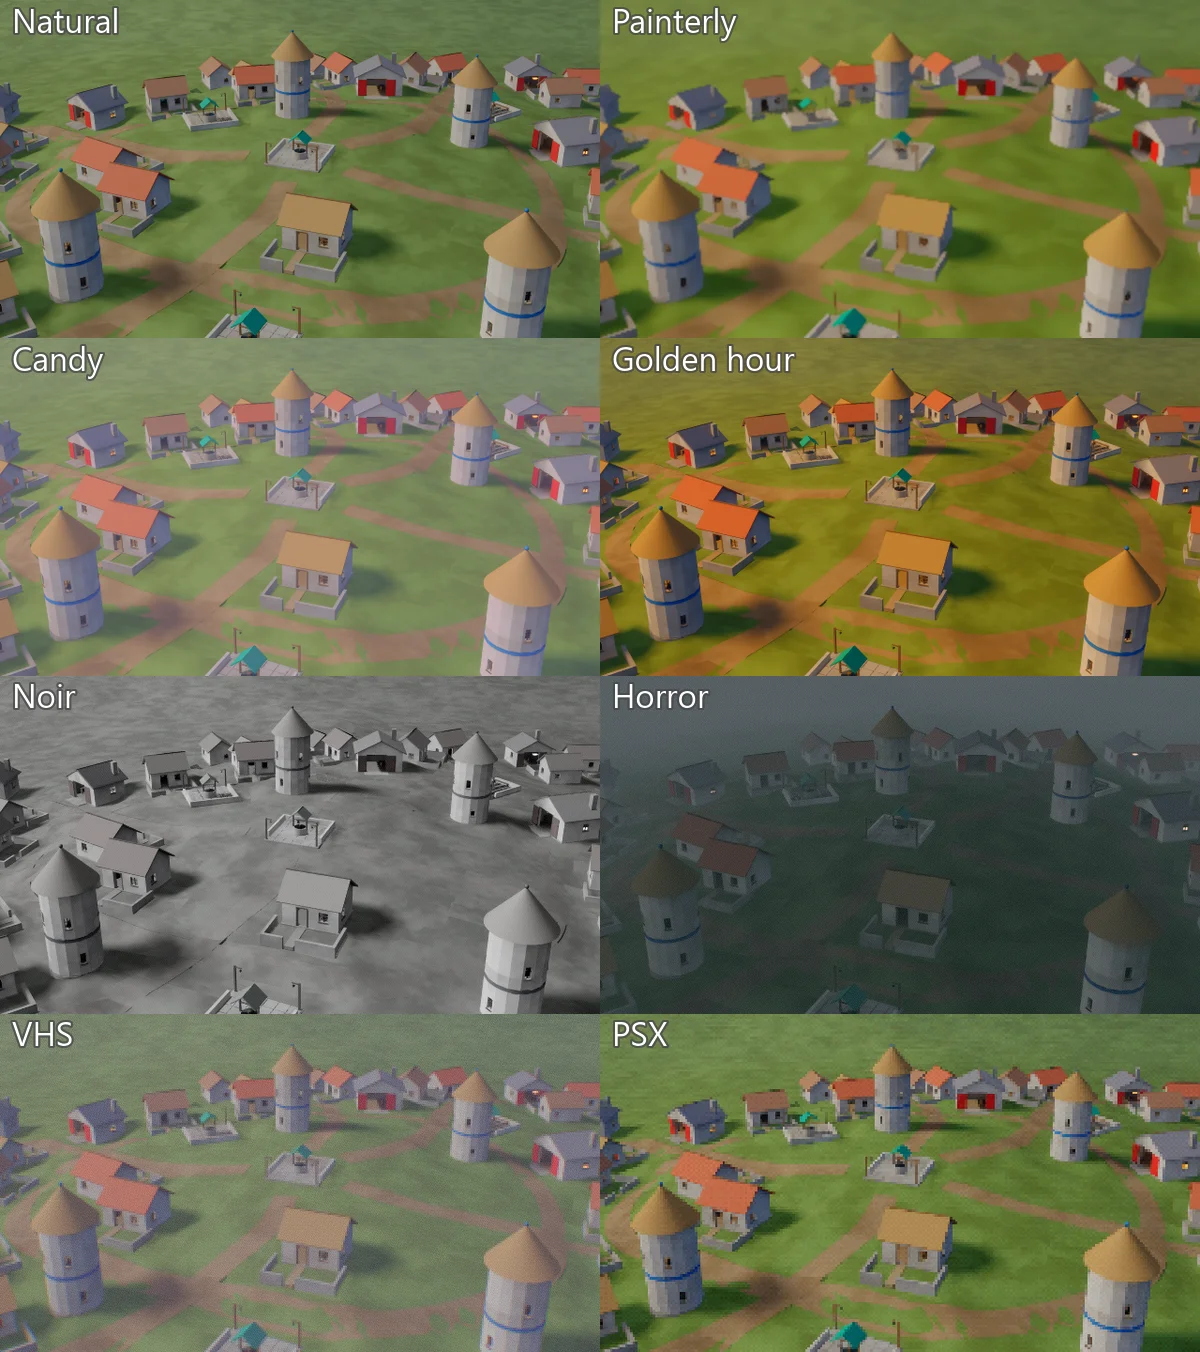
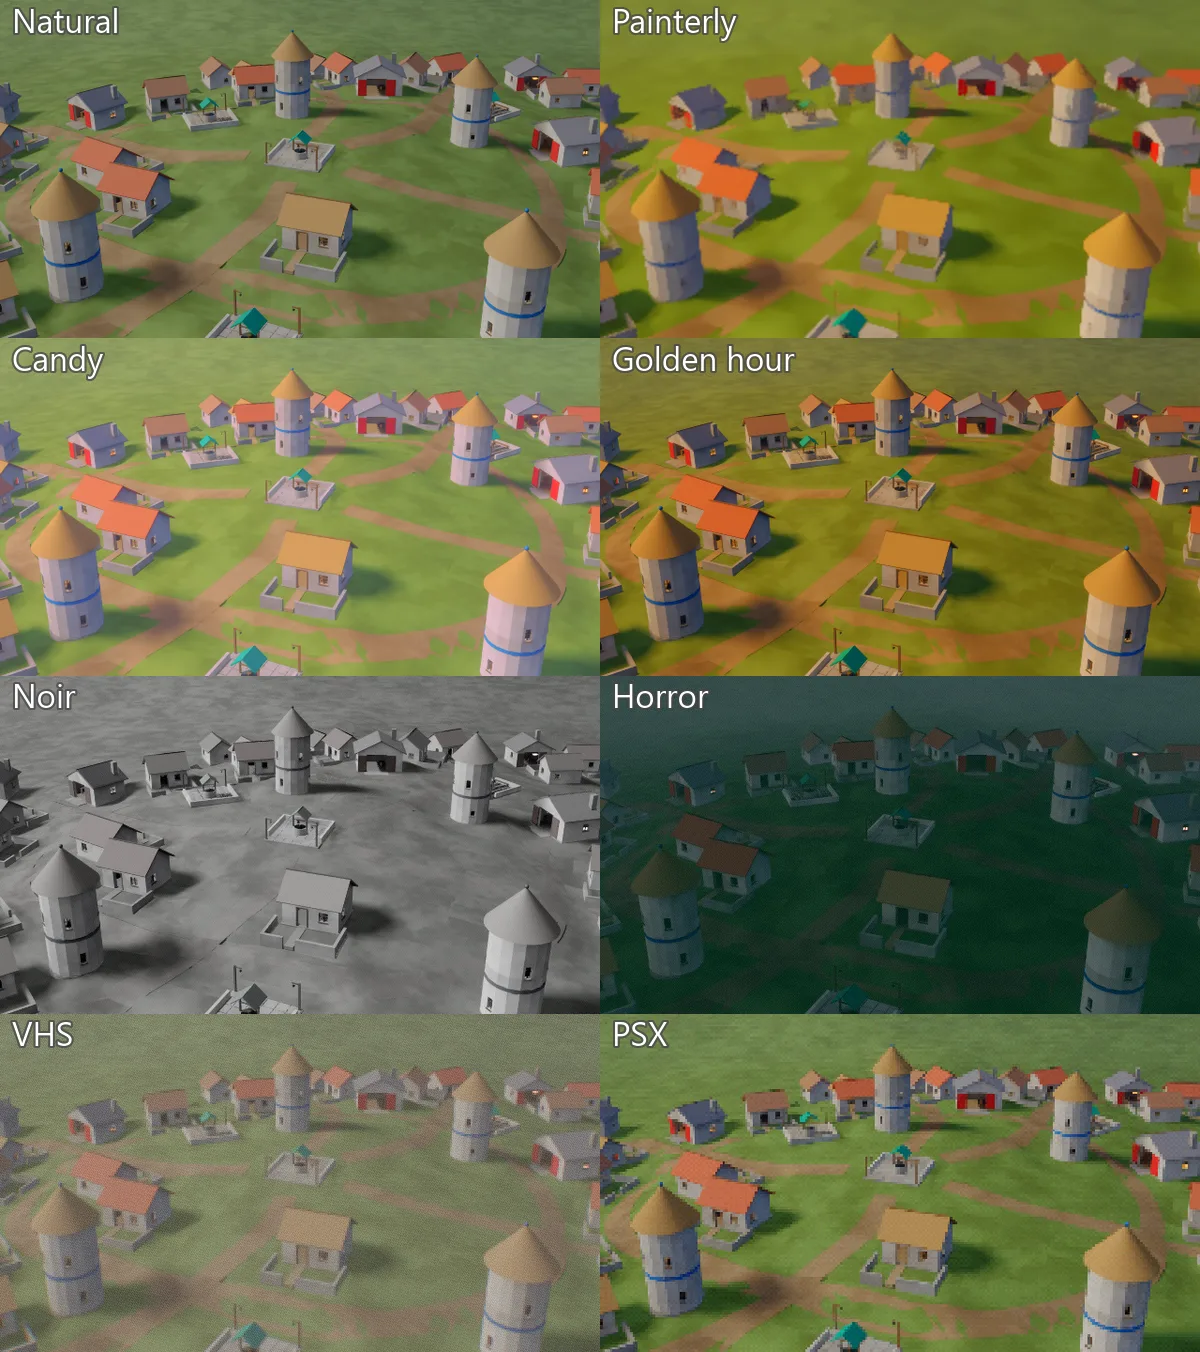
fix: brighter pastel Candy, broader Painterly strokes, readable Horror and a warm faded VHS

diff --git a/src/Super/Looks.cs b/src/Super/Looks.cs
@@ -13,42 +13,51 @@ public static class Looks
     /// <summary>The game's own picture, unchanged.</summary>
     public static ArtLook Natural { get; } = new() { Name = "Natural" };
 
-    /// <summary>An oil painting in warm afternoon light: brush strokes, softer edges and gentle, rich colour.</summary>
+    /// <summary>An oil painting in warm afternoon light: broad, crisp brush strokes and gentle, rich colour.</summary>
     public static ArtLook Painterly { get; } = new()
     {
         Name = "Painterly",
         Finish = new PostSettings
         {
-            Saturation = 0.2f,
-            Contrast = 0.06f,
-            Temperature = 0.06f,
-            Sharpen = -0.4f,
-            Vignette = 0.1f,
+            Saturation = 0.25f,
+            Contrast = 0.12f,
+            Temperature = 0.18f,
+            Tint = 0.04f,
+            Sharpen = 0.3f,
+            Vignette = 0.15f,
+            Gain = new Vector3(0.04f, 0.02f, -0.03f),
+            Grade = new ColorGrade
+            {
+                SplitShadows = new Vector3(0.02f, 0f, 0.06f),
+                SplitHighlights = new Vector3(0.1f, 0.05f, 0f),
+            },
         },
-        Paint = new PaintSettings { Amount = 1f, BrushSize = 10f, Sharpness = 0.7f },
-        Light = new LookLight { SunWarmth = 0.3f },
+        Paint = new PaintSettings { Amount = 1f, BrushSize = 16f, Sharpness = 1f },
+        Light = new LookLight { SunWarmth = 0.45f },
     };
 
-    /// <summary>Sweet and bright: pastel colour, pink light, teal shade and a dreamy glow.</summary>
+    /// <summary>Sweet and bright: soft pastel colour, pink light, mint shade and a dreamy glow.</summary>
     public static ArtLook Candy { get; } = new()
     {
         Name = "Candy",
         Finish = new PostSettings
         {
-            Exposure = 0.25f,
-            Saturation = 0.35f,
-            Contrast = -0.12f,
-            Tint = 0.08f,
-            Bloom = 0.08f,
-            Lift = new Vector3(0.05f, 0.03f, 0.06f),
+            Exposure = 0.55f,
+            Saturation = 0.6f,
+            Contrast = -0.06f,
+            Tint = 0.1f,
+            Bloom = 0.12f,
+            Sharpen = -0.3f,
+            Lift = new Vector3(0.03f, 0.02f, 0.04f),
+            Gain = new Vector3(0.06f, 0.02f, 0.06f),
             Grade = new ColorGrade
             {
-                SplitShadows = new Vector3(0f, 0.06f, 0.1f),
-                SplitHighlights = new Vector3(0.15f, 0.03f, 0.1f),
+                SplitShadows = new Vector3(0.02f, 0.06f, 0.1f),
+                SplitHighlights = new Vector3(0.2f, 0.04f, 0.14f),
             },
             Vignette = -0.2f,
         },
-        Light = new LookLight { Sky = 0.3f },
+        Light = new LookLight { Sun = 0.2f },
     };
 
     /// <summary>The hour before sunset on film: a low orange sun, teal shade, a glowing flare and darker corners.</summary>
@@ -87,37 +96,41 @@ public static class Looks
         Light = new LookLight { Sun = 0.3f },
     };
 
-    /// <summary>Something is wrong here: a dark, sickly green, thick fog under heavy cloud, grain and a shaky lens.</summary>
+    /// <summary>Something is wrong here: dark and sickly green under heavy cloud and a low fog, grain and a shaky lens.</summary>
     public static ArtLook Horror { get; } = new()
     {
         Name = "Horror",
         Finish = new PostSettings
         {
-            Exposure = -0.25f,
-            Saturation = -0.6f,
-            Contrast = 0.15f,
-            Temperature = -0.15f,
-            Tint = -0.1f,
-            Lift = new Vector3(0f, 0.008f, 0.004f),
+            Exposure = -0.2f,
+            Saturation = -0.45f,
+            Contrast = 0.3f,
+            Temperature = -0.2f,
+            Tint = -0.15f,
+            Lift = new Vector3(0f, 0.012f, 0.006f),
             Grain = 0.05f,
-            Vignette = 0.45f,
+            Vignette = 0.55f,
+            Grade = new ColorGrade { SplitShadows = new Vector3(0f, 0.04f, 0.03f) },
             Screen = new ScreenEffects { ChromaticAberration = 0.15f },
         },
-        Light = new LookLight { Sun = -1.2f, Sky = -0.6f, Fog = 0.03f, Clouds = 0.6f, Flare = -10f },
+        Light = new LookLight { Sun = -1f, Sky = -0.8f, Fog = 0.012f, Clouds = 0.7f, Flare = -10f },
     };
 
-    /// <summary>A worn home video: colour fringes, soft big pixels, grey blacks and fewer shades.</summary>
+    /// <summary>A worn home video: colour bleeding at the edges, soft big pixels, noise, faded colour and a warm cast.</summary>
     public static ArtLook Vhs { get; } = new()
     {
         Name = "VHS",
         Finish = new PostSettings
         {
-            Contrast = -0.1f,
-            Temperature = -0.08f,
-            Tint = 0.08f,
-            Lift = new Vector3(0.05f, 0.04f, 0.06f),
-            Grain = 0.08f,
-            Sharpen = -0.4f,
+            Saturation = -0.25f,
+            Contrast = -0.12f,
+            Temperature = 0.12f,
+            Tint = 0.04f,
+            Lift = new Vector3(0.06f, 0.05f, 0.04f),
+            Grain = 0.12f,
+            Bloom = 0.06f,
+            Sharpen = -1f,
+            Vignette = 0.2f,
             Screen = new ScreenEffects { ChromaticAberration = 1f },
         },
         Retro = new RetroSettings { PixelSize = 3f, Levels = 40, Dither = 0.6f },

diff --git a/docs/rendering.md b/docs/rendering.md
@@ -1568,17 +1568,17 @@ for a menu. [`--look`](command-line.md) picks the look a game starts with, over 
 itself. The [Hamlet example](../examples/Hamlet) steps through them with L. Here is each on the same
 frame of Hamlet:
 
-![Hamlet's village at midday in each built-in look, labelled: Natural; Painterly, with soft brush strokes and warm light; Candy, pastel and pinker; Golden hour, warm orange light with a flare and darker corners; Noir, black and white with hard contrast; Horror, dark and green in thick fog; VHS, a cool, washed picture with fringes and fine dots; PSX, big square pixels with a dither](media/looks.webp)
+![Hamlet's village at midday in each built-in look, labelled: Natural; Painterly, warm and yellow-green with broad brush strokes; Candy, bright and pastel with pink-tinted towers; Golden hour, warm orange light with a flare and darker corners; Noir, black and white with hard contrast; Horror, dark, green and hazy but still readable; VHS, a faded, warm picture with colour fringes and noise; PSX, big square pixels with a dither](media/looks.webp)
 
 | Look | What it does |
 | --- | --- |
 | `Looks.Natural` | Nothing: the game's own picture |
-| `Looks.Painterly` | An oil painting in warm light, with soft brush strokes and rich colour |
-| `Looks.Candy` | Bright and pastel, with pink light, teal shade and a glow |
+| `Looks.Painterly` | An oil painting in warm light, with broad, crisp brush strokes and rich colour |
+| `Looks.Candy` | Bright, soft and pastel: lifted exposure, rich colour, pink light, mint shade and a glow |
 | `Looks.GoldenHour` | A low orange sun under a dimmer sky, teal shade, a brighter flare and darker corners |
 | `Looks.Noir` | Black and white with hard contrast, a brighter sun, deep corners and grain |
-| `Looks.Horror` | Dark and sickly green, the sun and sky dimmed under thick fog and cloud, grain and no flare |
-| `Looks.Vhs` | A worn home video: grey blacks, colour fringes, grain, slightly big pixels and fewer shades |
+| `Looks.Horror` | Dark and sickly green but readable: the sun and sky dimmed under heavy cloud and a low fog, grain and no flare |
+| `Looks.Vhs` | A worn home video: faded, warm colour, grey blacks, colour bleeding at the edges, noise, soft big pixels and fewer shades |
 | `Looks.Psx` | A 1990s console: big square pixels, few shades with a dither between them and no sharpening |
 
 A look is a plain value, so make your own or change one with `with`:
